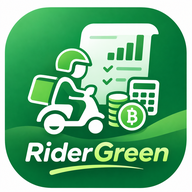
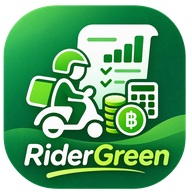
Add files via upload

diff --git a/sw.js b/sw.js
@@ -1,4 +1,4 @@
-const CACHE_NAME = 'ridergreen-shell-v3-icon';
+const CACHE_NAME = 'ridergreen-shell-v4-transparent-icon';
 const APP_SHELL = ['./', './index.html', './manifest.webmanifest', './icon-192.png', './icon-512.png'];
 self.addEventListener('install', event => {
  event.waitUntil(caches.open(CACHE_NAME).then(cache => cache.addAll(APP_SHELL)).then(() => self.skipWaiting()));
